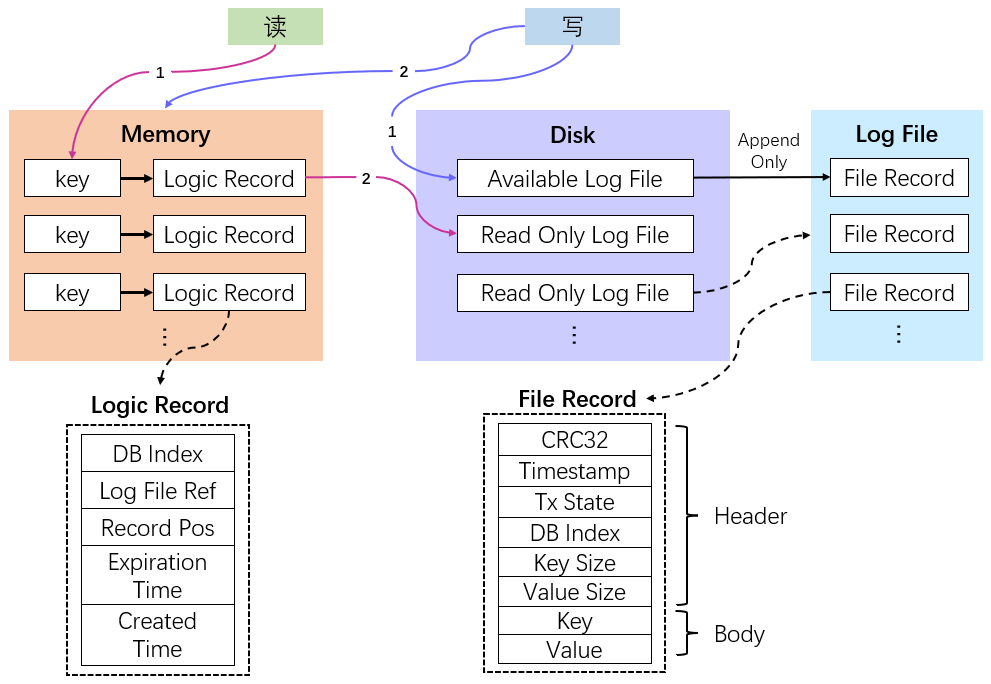
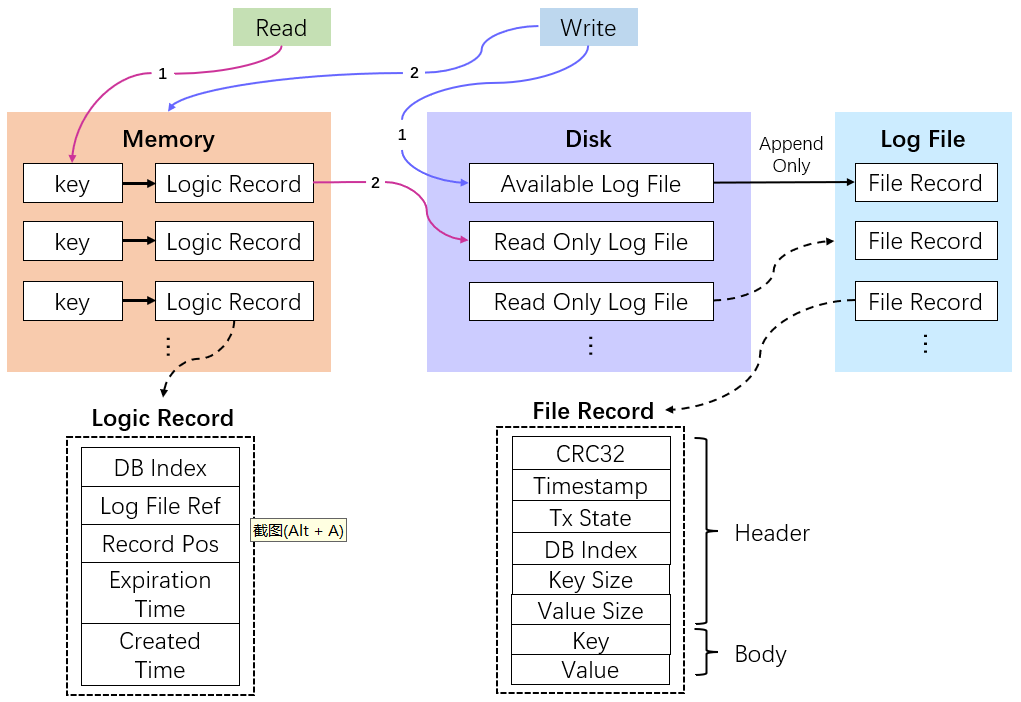
添加英文readme

diff --git a/README_en.md b/README_en.md
@@ -1,0 +1,161 @@
+# FoxbatDB
+
+A lightweight Key-Value Database: supports ACID transactions, compatible with Redis commands
+
+* [Main Features](#1-main-features)
+* [Design Overview](#2-design-overview)
+* [Quick Start](#3-quick-start)
+* [Performance Analysis](#4-performance-analysis)
+
+## 1 Main Features
+
+### 1.1 Advantages
+
+* Cross-platform
+* Read/write performance close to Redis
+* Crash-safe
+* Supports ACID transactions
+* Supports fuzzy matching of key prefixes
+* Simple crash recovery, data backup, or migration operations
+* Communicates with clients using RESP 3 protocol, compatible with Redis commands, can directly use existing Redis
+  clients
+
+### 1.2 Limitations
+
+* All keys are maintained in memory
+
+## 2 Design Overview
+
+### 2.1 Memory Index Structure
+
+FoxbatDB's memory index structure uses a trie tree to achieve fast fuzzy matching of key prefixes;
+In addition, to address the problem of excessive memory consumption by ordinary tries, it adopts a HAT-trie implemented
+based on the burst-trie principle[<sup>[1]</sup>](#refer-anchor-1)
+as the actual memory index structure.  
+![Hat-trie structure](https://tessil.github.io/images/hat-trie/hat_trie_hybrid.png)
+
+### 2.2 Disk Storage Structure
+
+FoxbatDB's disk data storage uses a Write Ahead Log (WAL),
+the data log file is an append-only file to achieve better write performance.
+The storage strategy refers to the implementation of Bitcask[<sup>[2]</sup>](#refer-anchor-2).
+![FoxbatDB disk storage](images/data.png)
+
+### 2.3 Transactions
+
+FoxbatDB transactions can be viewed as an ACID extension of Redis transactions, sharing transaction commands with Redis,
+but guaranteeing ACID:
+
+* Atomicity: If the transaction contains write operations, it will automatically roll back if an error occurs during
+  transaction execution.
+* Isolation: Achieved through the Watch optimistic lock mechanism, consistent with Redis.
+* Durability: If the transaction contains write operations, the transaction execution status and written data will be
+  persisted to disk during execution (Tx State in the File Record structure).
+* Consistency: When loading historical data, check the transaction execution status recorded to ensure that the database
+  can be restored to a consistent state even if a system failure occurs during transaction execution.
+
+### 2.4 Performance Optimization Strategies
+
+* CPU cache optimization: Data structures that need to be frequently accessed are aligned with the CPU L1 cache line
+  size.
+* Memory usage optimization: For data structures that need to be frequently created/destroyed, implement dedicated
+  object pools to reduce memory fragmentation and overhead of dynamic memory allocation/deallocation.
+
+## 3 Quick Start
+
+### 3.1 Supported Commands
+
+### 3.1.1 Redis Commands
+
+* Database operations
+    - SELECT
+    - HELLO
+    - MOVE
+* Transactions
+    - MULTI
+    - EXEC
+    - DISCARD
+    - WATCH
+    - UNWATCH
+* Publish-Subscribe pattern
+    - PUBLISH
+    - SUBSCRIBE
+    - UNSUBSCRIBE
+* Key-Value operations
+    - Read
+        - GET
+        - EXISTS
+        - GETRANGE
+        - MGET
+        - STRLEN
+        - TTL
+        - PTTL
+    - Write
+        - SET
+        - MSET
+        - APPEND
+    - Delete
+        - DEL
+    - Modify
+        - RENAME
+        - INCR
+        - DECR
+        - INCRBY
+        - DECRBY
+        - INCRBYFLOAT
+
+### 3.1.2 Extended Commands
+
+* MERGE: Merge data log files on disk; returns OK on success, returns specific error on failure
+* PREFIX: Query Key-Value pairs matching specific prefixes; returns matching Key-Value pairs in array format (key1,
+  value1, key2, value2....)
+
+### 3.2 Installation
+
+#### 3.2.1 Build from Source
+
+* Linux/Mac OS
+
+```shell
+mkdir build
+cd build
+cmake ..
+make
+```
+
+* Windows  
+  [Microsoft Official Documentation: Compiling CMake Projects](https://learn.microsoft.com/en-us/cpp/build/cmake-projects-in-visual-studio?view=msvc-170)
+
+## 4 Performance Analysis
+
+### 4.1 Test Conditions
+
+* Operating System: Ubuntu 22.04
+* Compiler: gcc 11.4.0 with O3 optimization enabled
+* Machine Specifications  
+  ![Machine Specifications](images/machine.png)
+
+### 4.2 Read/Write Performance
+
+* Performance testing conducted using [google/benchmark](https://github.com/google/benchmark)
+  ![Benchmark](images/benchamrk.png)
+
+### 4.3 Comparison with Redis
+
+* Redis configurations kept at default, version 7.2.2
+* Each command run 100 times, average time consumption recorded
+* Testing script: test/benchmark/compare_redis.py
+  ![Comparison with Redis Results](images/benchmark_redis.png)
+
+*Clockwise, the performance comparisons are: write performance comparison, read performance comparison, read/write
+performance comparison, and delete performance comparison.*
+
+## References
+
+<div id="refer-anchor-1"></div>
+
+[1] [Askitis N, Sinha R. HAT-trie: a cache-conscious trie-based data structure for strings[C]//ACSC. 2007, 97: 105.](https://d1wqtxts1xzle7.cloudfront.net/65965420/CRPITV62Askitis-libre.pdf?1615412661=&response-content-disposition=inline%3B+filename%3DHAT_Trie_A_Cache_Conscious_Trie_Based_Da.pdf&Expires=1705206514&Signature=N5Zff-G1FTsDEfjE5-RwT5J9nSA~i89PIBE2SXBjFrQ-goCLiRHtcB7XbvpMxJsBpkZ5JvR75WwiMsAzVwOAr85FVoFwsICUmwZ-EFoKlzeKml~QxzDD7X8MKFPk3-8OP5RqycwcL~9-KoT8J-JUkoTRX-5ZV9qBX70LEOqI6E8VMwHrER05zf7VSQKwmEnVLYlV9imhy0InxCKLc-4e50xrIt4D96b0QZNqJf~dnsrxpSdVz9mfLQU8QYNnOvgCH77utQhCRvh~jL~GVKdGcWxYO0Z3WcndJ5GGtpvCDSmEaG4u-beoMkRKosDFX~v0iis7UNlO8Uh0hrPSWPusdQ__&Key-Pair-Id=APKAJLOHF5GGSLRBV4ZA)
+
+<div id="refer-anchor-2"></div>
+
+[2] [Sheehy J, Smith D. Bitcask: A log-structured hash table for fast key/value data[J]. Basho White Paper, 2010.](https://riak.com/assets/bitcask-intro.pdf)
